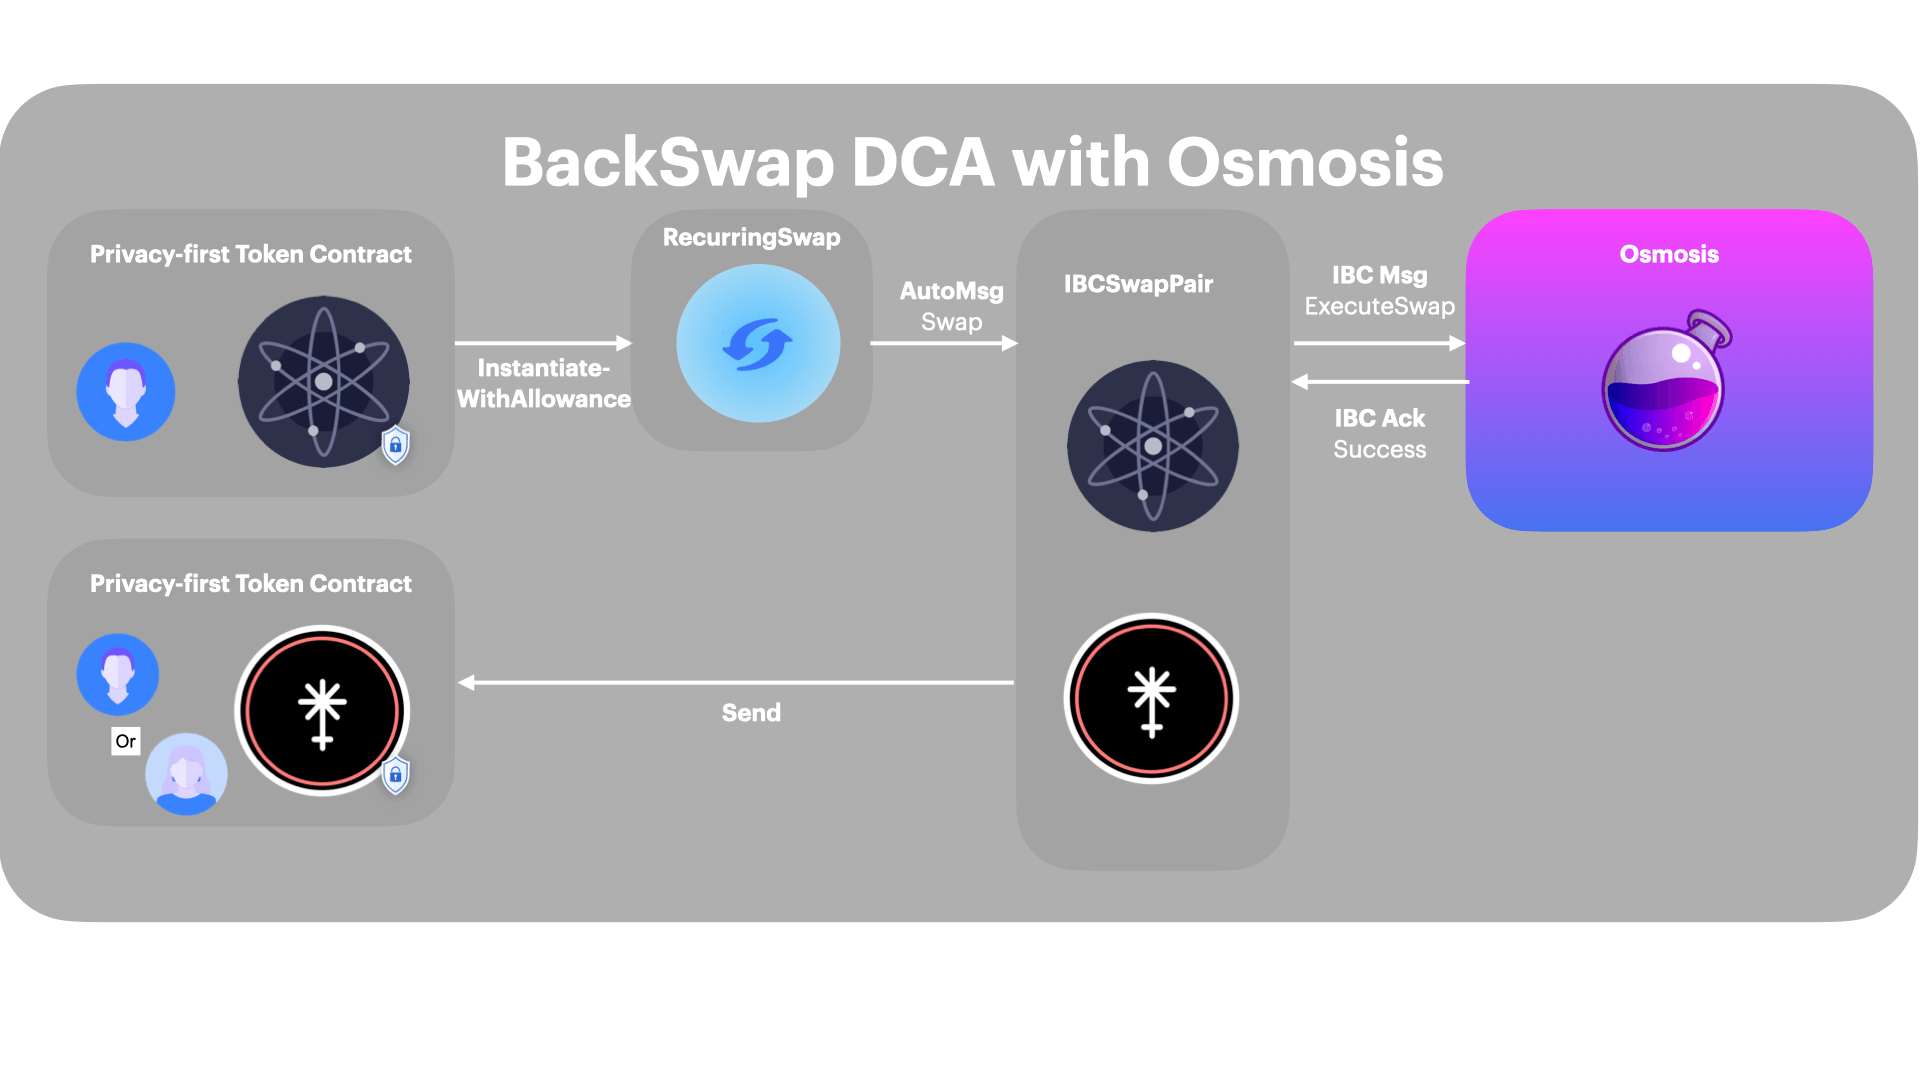
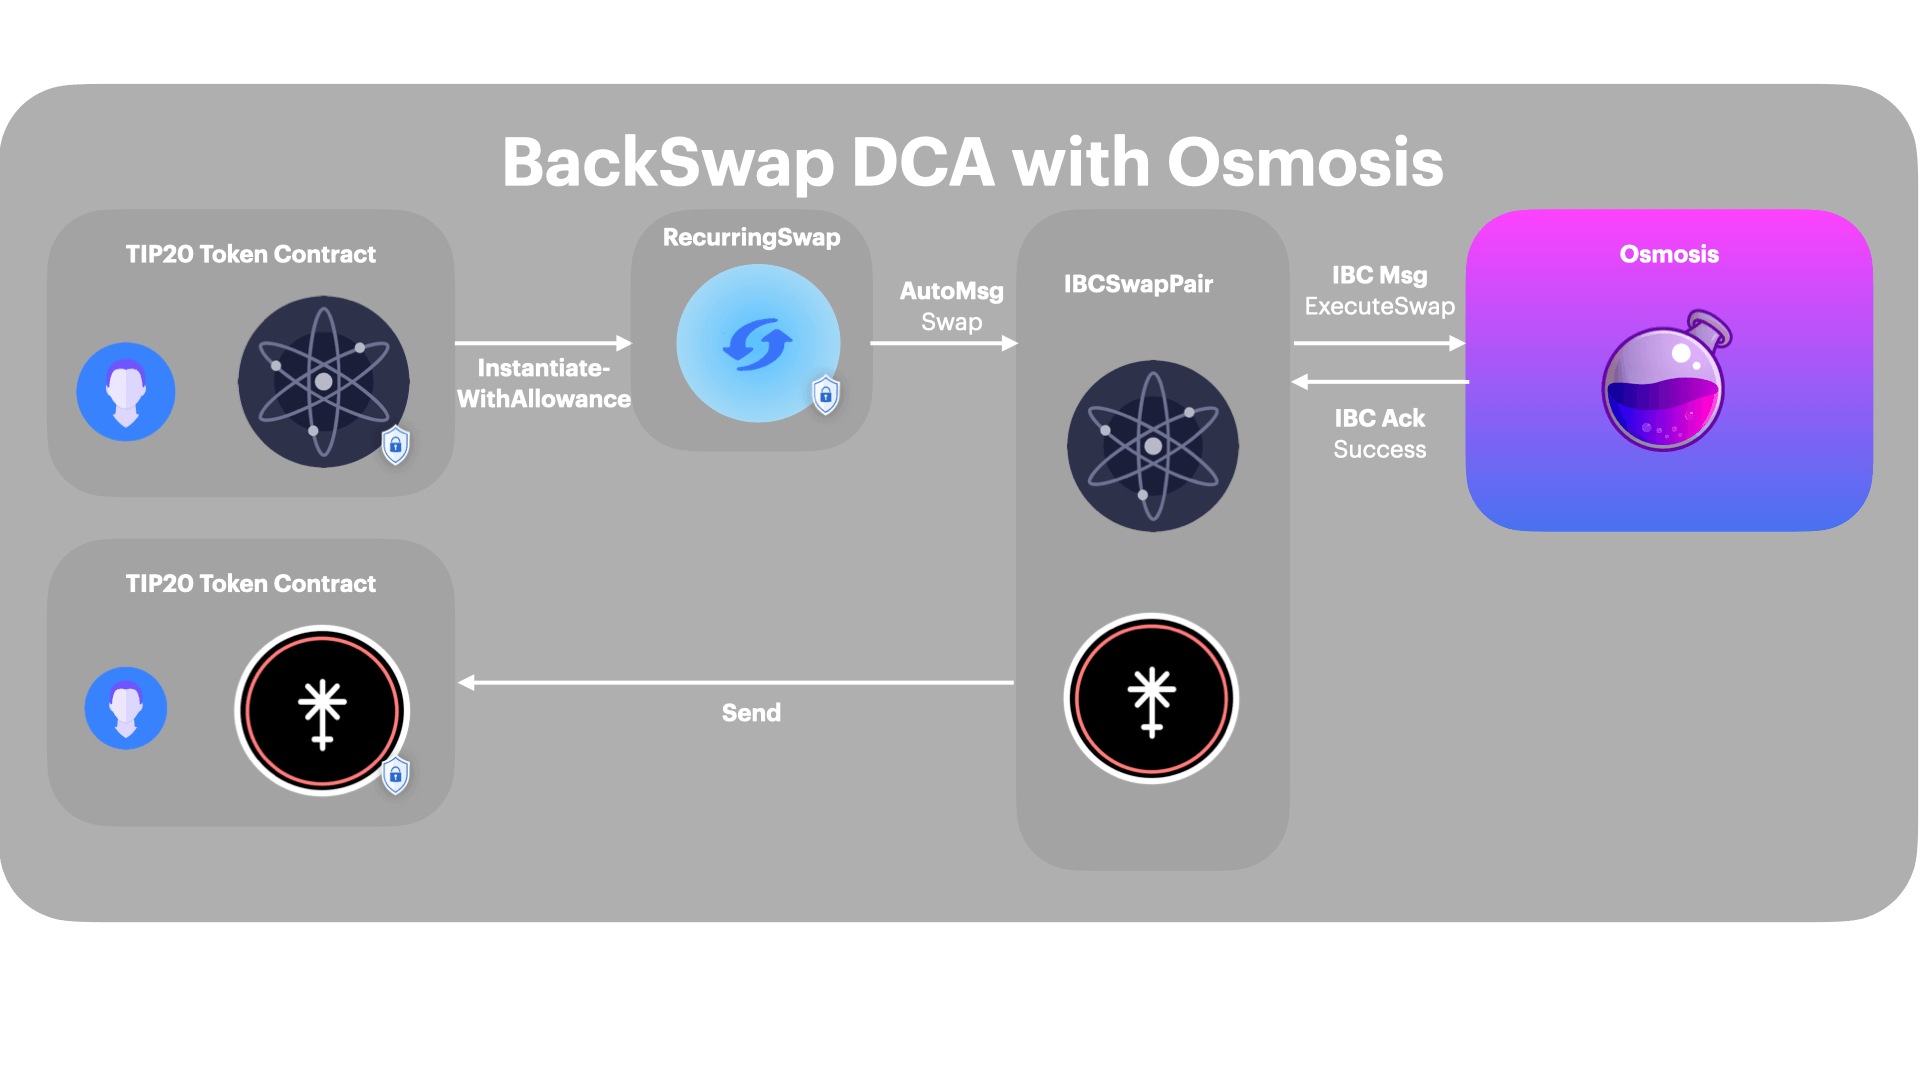
docs

diff --git a/docs/README.md b/docs/README.md
@@ -7,23 +7,29 @@
 
 ## Why Trustless Contracts?
 
-Smart contracts enable decentralized applications, where data is immutable and users can trust the data to be real and uncensored. Still, smart contracts are far from perfect as current smart contracts on major blockchains are fully public, data is stored indefinitely. Right now, developers cannot guarantee any kind of privacy when interacting with their contracts. Anyone can view user inputs. Users lose funds because smart contracts have no predefined end date. Stakeholders may not develop enough trust to interact with the contract as the data is public and the contract end date is unknown. Yet, so far no easy way exists to build contracts with private user inputs, deterministic outcomes and automatic time-based actions to cope with these problems. In order to truly build trustable contracts, developers need to program contracts that can be private and have automatic time-based functions.
+Smart contracts enable decentralized applications, where data is immutable and users can trust the data to be real and uncensored. Still, smart contracts are far from perfect as current smart contracts on major blockchains are fully public, data is stored indefinitely. Right now, developers cannot guarantee any kind of privacy when interacting with their contracts. Anyone can view user inputs. Users lose funds because smart contracts have no predefined end date. Stakeholders may not develop enough trust to interact with the contract as the data is public and the contract end date is unknown. 
+
+Yet, so far no easy way exists to build contracts with private user inputs, deterministic outcomes and automatic time-based actions to cope with these problems. 
+
+In order to truly build trustless applications for DAOs and end-users, developers should be able to program contracts that can be private with support for automatic time-based functions.
 
 
 Chains and CosmWasm-based apps extend their functionality by integrating with the Trustless Hub over IBC. Trustless Contracts enable existing apps to have the Trustless Contract features. Out of the box, recurring transactions, remittances and payroll are possible. When allowed, recipients can interact on Trustless Hub and transfer funds to a privacy-perserving account.
+ 
 
-Developers on other Chains and contract platforms will be able to use and integrate Trustless Contracts. DAOs can use payroll services, NFT solutions can have subscriptions, and games can do in-game battles with time-based winner appointment. 
 
 
-There are 4 pillars to Trustless Contracts:
+## 4 pillars of Trustless Contracts
 1. Privacy-by-default
-2. Automated Execution
-3. Recurring transactions with 1-click
+2. Time-based Execution
+3. Recurring transactions with one click
 4. Governance-verified Templates
 
 
 Any CosmWasm code, like smart contracts on Juno, Osmosis, Secret Network and Archway can extend their functionality through Inter-Blockchain Communication (IBC)., or be transformed into a Trustless Contract.
 
+## Use Cases
+Developers on other Chains and contract platforms will be able to use and integrate Trustless Contracts. DAOs can use payroll services, NFT solutions can have subscriptions, and games can do in-game battles with time-based winner appointment. 
 
 Use cases
 1. DeFi - Privacy-perserving and time-based trading  

diff --git a/docs/kb/TIP20.md b/docs/kb/TIP20.md
@@ -1,0 +1,51 @@
+---
+order: 1
+title: TIP20
+description: Learn how TIP20 - Trustless Hub's privacy-perserving token standard works
+---
+
+# TIP20: a private-Token contract
+*CosmWasm token with opt-out privacy, can be backed 1-1 by a chain-native asset*
+
+This is a privacy-first token implementation on Trustless Hub, TIP20. It can be backed by
+an IBC-native coin like TRST, ATOM, OSMO, JUNO ect. and has a fixed 1-to-1 exchange ratio
+with it.
+
+Using it is simple - you deposit the token of the contract (e.g. TRST) into the contract, and you get pToken 
+(e.g. pTRST), which you can then use with the ERC-20-like functionality that
+the contract provides including: sending/receiving/allowance and withdrawing
+back to TRST.
+
+In terms of privacy the deposit & withdrawals are public, as they are
+transactions on-chain. The rest of the functionality can be private (so no one can
+see if you send pTRST and to whom, and receiving pTRST can also be hidden). 
+
+You can execute and instantiate other contracts. To the chain, only your address has interacted with this privacy-perserving token.
+
+## Usage examples:
+
+check out the schema provided for the JSON messages to send. 
+
+## Play with it on testnet
+
+The deployed pTRST contract address on the testnet is
+`trst...` and label `ptrst`
+
+## Troubleshooting 
+
+All transactions are encrypted, so if you want to see the error returned by a
+failed transaction, you need to use the command
+
+```
+trstd q compute tx <TX_HASH>
+```
+
+## Notes 
+
+* Addresses of private-TRST accounts are the same as of their respective trust
+  account.
+* The exchange ratio is fixed at 1-to-1.
+* The total supply will always equal the amount of
+  TRST locked in the contract, which can be seen in the explorer and in the contract public state.
+* Messages can be padded with a multiple of 256 bytes by convention to maximize
+  privacy.

diff --git a/docs/kb/ContractResult.md b/docs/kb/ContractResult.md
@@ -1,14 +1,52 @@
 ---
-order: 5
-parent:
-  title: Contract State
-  order: 5
+order: 2
+title: Contract State
+description: Learn how to integrate a contract state and query it
 ---
 
 # Contract State
 
 Contracts are private-by-default. State is encrypted. There is a public state avaliable too. 
 
-TODO 
+Let's see how the public state works.
+## CosmWasm Response object
+At the end of a CosmWasm function, developers can define what to be added to the contract's public state in the Response object.
 
+
+### Example: Instantiating TIP20 contract
+
+- log = encrypted and viewable for sender only
+- pub_db = contract state
+- acc_pub_db = account_specific contract state
+
+
+```rust
+
+    let log = vec![
+        log("status", "success"),
+        pub_db("name", msg.name),
+        pub_db("symbol", msg.symbol),
+        pub_db("decimals", msg.decimals.to_string()),
+        pub_db("admin", admin.as_str()),
+        pub_db("total_supply", supply),
+        pub_db("minter", info.sender.clone()),
+        pub_db(
+            "total_supply_is_public",
+            init_config.public_total_supply().to_string(),
+        ),//boolean indicating if total supply is viewable without viewing key
+        acc_pub_db("initiated", "contract", info.sender),
+    ];
+
+    Ok(Response::default().add_attributes(log.clone()))
+        
+``` 
+
+### Example: Updating admin in TIP20 contract
+Here we directly add the pub_db items to the CosmWasm Response object.
+![pubdb](../images/pubdb.png)
+
+
+- A public state is queryable through RPC like so:
  {RCP API URL}/compute/v1beta1/contract/{contract_address}/public-state
+-  An account-specific public state is queryable like so:
+  {RCP API URL}/compute/v1beta1/contract/{contract_address}/public-state/{account_address}

diff --git a/docs/kb/Keyring.md b/docs/kb/Keyring.md
@@ -1,0 +1,37 @@
+---
+order: 3
+title: Keyring
+description: The Keyring contract manages viewing keys for privacy-perserving contracts
+---
+
+# Keyring
+
+The Keyring contract manages viewing keys for privacy-perserving contracts
+Viewing keys allow specified individuals, including the owner of the account to query account-specific information such as transaction histories and balances.
+Queries are free and do not require signatures.
+As each contract has its own balances, having to create viewing keys for each contract is cumbersome and gas expensive.
+Hence, developers can integrate a Keyring contract. Here, keys are managed in one place. 
+
+A query can be called which looks like this on the frontend:
+
+```javascript
+ let balanceResponse =
+          await this.trustlessjs.query.compute.queryContractPrivateState({
+            address: this.tip20_contract_address,
+            query: {
+              balance: {
+                address: this.session.address,
+                key: viewingKey,
+              },
+            },
+          })
+        
+```
+
+On the TIP20 Contract of the requested balance address is query sender + the address of the caller is passed through to the Keyring contract.
+The Keyring gives back a success response, which is sufficient for the TIP20 token contract to know that the viewing key is present.
+On success, TIP20 contract gives back an encrypted response with the balance.
+
+![lkeyring](../images/keyring.png)
+
+*This contract is be implemented, feel free to apply for a grant to build this out*

diff --git a/docs/kb/Parameters.md b/docs/kb/Parameters.md
@@ -1,11 +1,10 @@
 ---
-order: 3
-parent:
-  title: Governance
-  order: 3
+order: 5
+title: Parameters
+description: Learn how fees, governance and parameters are used
 ---
-
-### Contract Code Approval
+# Parameters
+## Contract Code Approval
 TRST is used to enable contract code on-chain. Because Trustless Contracts are highly programmable on a block-level, we minimize any attack possibilities by governance code approval. As the incentives of TRST holders is to maximize TRST value, this makes total sense and keeps the the chain secure.
 
 Because we want you to feel good about the apps that you interact with, the Hub gives you, the community, the power to manage the apps that are run. It creates a safe place where anyone can be ensured when interacting Trustless Hub contract, just like the App Store for Apps.
@@ -14,7 +13,7 @@ We want to minimize the need for trust in anyone, hence Trustless Hub does not s
 
 
 
-# Trustless Hub specific parameters
+## Trustless Hub specific parameters
 
 
 #### Contract instances — AutoMessage Fees

diff --git a/docs/kb/index.md b/docs/kb/index.md
@@ -1,17 +1,15 @@
 ---
-order: 1
+order: 0
 parent:
   title: Knowledge Base
-  order: 3
+  order: 1
 ---
 
 # Introduction
 
-Knowledge base contains information that cover different aspects of Trustless Hub: from how Trustless Contracts and automated messages work to creating Trustless Items. 
+Knowledge base contains information that cover different aspects of Trustless Hub: from how to set privacy controls to how AutoMessages work. 
 
 If you are wondering how the components work, and how the Hub functions, the Knowledge base will be the place to be.
 
-If you're new to Trustless Hub or want to go through a series of tutorials, visit the [Developer Guide](/guide/).
+If you're new to Trustless Hub watch [this explainer video](https://www.youtube.com/watch?v=dNQuvKha9uU&feature=emb_title) (2:16 minutes)
 
-
-TODO

diff --git a/docs/contracts/Encryption.md b/docs/contracts/Encryption.md
@@ -11,9 +11,9 @@ When developing Trustless Contracts it is important to understand what is privat
 
 *A high-level overview of the transaction process for each message type is as follows:*
 
-![computation](../images/computation.png)
+![encryption](../images/encryption.png)
 
-1. Inputs are encrypted and then sent to a blackbox environment
+1. Inputs are encrypted and then sent to a secure environment
 2. There, inputs are decrypted, you can alter the state, which is then stored in an encrypted way
 3. The outputs are encrypted and sent back to the message sender. Additionally open and verifiable logs can be made which update the Public Contract State, for anyone to view. 
 

diff --git a/docs/contracts/index.md b/docs/contracts/index.md
@@ -10,7 +10,6 @@ parent:
 
 This documentation provides a number of examples for Trustless Contracts and how these can be interated to other chains with IBC.
 
-(This guide is a work-in-progress)
 By following this guide you will learn about:
 
 * Differences of Trustless Contract templates with vanilla CosmWasm
@@ -18,3 +17,6 @@ By following this guide you will learn about:
 * Storing, Instantiating and Executing CosmWasm Code
 * Build a frontend to your code 
 * Integrate Trustless Contracts to other CosmWasm contracts using Inter-Blockchain Communication (IBC)
+
+
+*This guide is a work-in-progress*

diff --git a/docs/contracts/IBC.md b/docs/contracts/IBC.md
@@ -1,5 +1,5 @@
 ---
-order: 4
+order: 6
 title: IBC Contract Calls
 description: Examples of IBC Contract calls
 ---
@@ -26,7 +26,7 @@ Trustless Contracts extend their functionality to other chains. In the near futu
 
 ### Payroll for DAOs
 3. DAOs Distributing funds over a certain period of time
-![hr](../images/hr1.png)
+![hr](../images/dao1.png)
 
 *IBC calls to public chains are public. The recurring transactions are auditable and viewable by admins. The balances are private by default and are acessable through viewing keys*
 

diff --git a/docs/modules/index.md b/docs/modules/index.md
@@ -2,15 +2,15 @@
 title: Introduction
 order: 0
 parent:
-  order: 0
+  order: 2
   title: Cosmos SDK Modules
 ---
 
 # Introduction
 
-Trustless Hub uses a number of custom modules. 
+Trustless Hub uses a number of custom modules.
 
-# List of Modules
+## List of Modules
 
 Here are a number of modules that is used in the TRST chain:
 

diff --git a/docs/kb/AutoMsg.md b/docs/kb/AutoMsg.md
@@ -1,8 +1,7 @@
 ---
-order: 2
-parent:
-  title: AutoMessage
-  order: 2
+order: 4
+title: Contract State
+description: Learn the basics of how AutoMessage enable contract self-execution
 ---
 
 # AutoMessage

diff --git a/docs/contracts/CLI.md b/docs/contracts/CLI.md
@@ -1,5 +1,5 @@
 ---
-order: 6
+order: 4
 title: CLI
 description: FUsing the Command-line interface to instantiate and execute contracts
 ---
